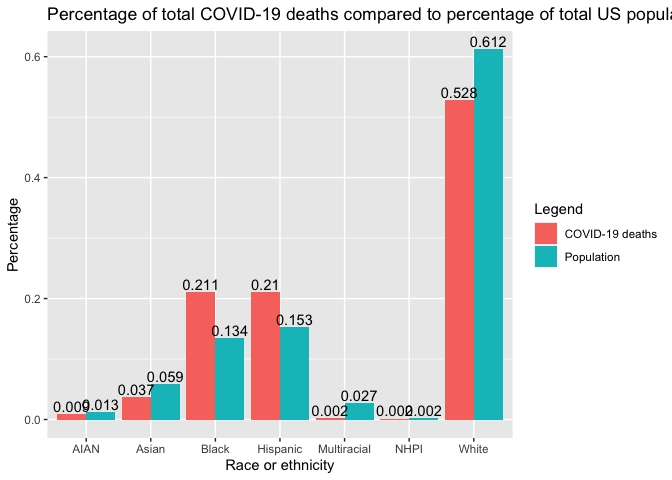
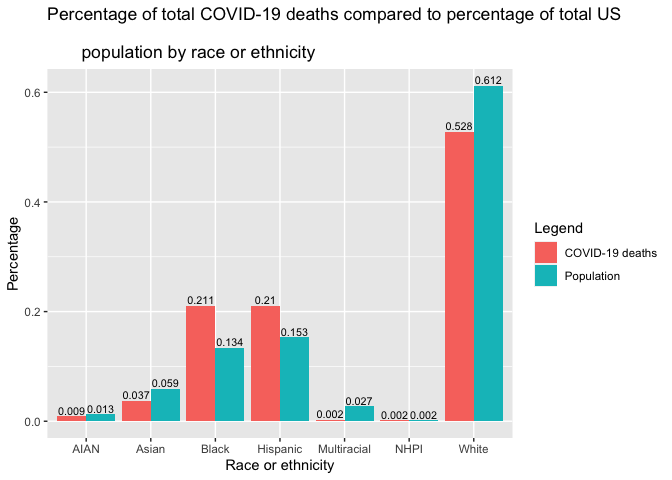
fixing README graphs

diff --git a/README.md b/README.md
@@ -79,10 +79,11 @@ colnames(df_deaths_population_by_percent) <- c("Race", "Variable", "Value")
 ggplot(df_deaths_population_by_percent, aes(x = Race, y = Value, fill = Variable)) +
   geom_bar(stat = "identity", position = "dodge") +
   geom_text(aes(label = round(Value, 3)),
-            position = position_dodge(width = 0.9), vjust = -0.25) +
+            position = position_dodge(width = 0.9), vjust = -0.25, size = 2.85) +
   scale_fill_discrete(labels = c("COVID-19 deaths", "Population")) +
   labs(x = "Race or ethnicity", y = "Percentage", fill = "Legend",
-       title = "Percentage of total COVID-19 deaths compared to percentage of total US population by race or ethnicity")
+       title = "Percentage of total COVID-19 deaths compared to percentage of total US \n
+       population by race or ethnicity")
 ```
 
 <img src="man/figures/README-unnamed-chunk-4-1.png" width="100%" />
